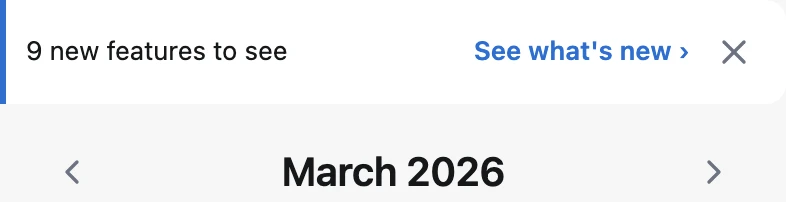
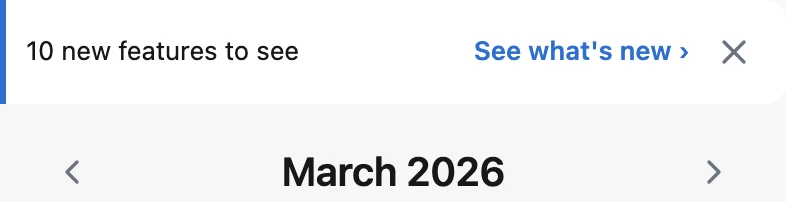
docs(cardio): 有酸素の ADR 2 本・マニュアルの章・お知らせを足す
- adr/data-model/cardio-segments-as-set-rows.md: 区間を SetEntry の任意フィールドとして持つ判断と、採らなかった案（合計だけ / ライブ計測 / 種類の復活 / 別の Vec）
- adr/ux/cardio-card-fields-per-machine.md: 1 行 = 1 区間、欄は機種ごとに最大 3 つ
- マニュアルに「有酸素を記録する」の章と図、お知らせ id 7 に図付きの項目

Changed region(s): [[0.0305, 0.2079, 0.3969, 0.297]]

diff --git a/src/i18n.rs b/src/i18n.rs
@@ -1199,6 +1199,20 @@ const JA_MANUAL: Manual = Manual {
             fig: Some((710, 510)),
         },
         ChapterText {
+            title: "有酸素を記録する",
+            body: &[
+                "「種目を追加」で部位「有酸素」を開き、機種を選びます。カードには、その機種の欄が出ます。",
+                "1 行が 1 区間です。時間・速度・傾斜などを打つと、カードの下の合計の行に、計算できる距離やペースが出ます。",
+                "途中で速度や傾斜を変えたら「+ 区間」を押します。直前の行の値が写り、時間欄にフォーカスが移るので、変えた欄だけ打ち直せます。",
+                "時間は分で打ちます。7.5 と打てば 7 分 30 秒として保存されます。",
+                "単位は km・km/h・%・m に固定です。設定では変わりません。",
+                "有酸素の行には重量と回数が無いので、「前回をコピー」は区間をそのまま持ち込みます。",
+                "推移タブでは、有酸素の種目を時間（分）か距離（km）でグラフにします。",
+            ],
+            fig_alt: "2 区間と合計",
+            fig: Some((762, 676)),
+        },
+        ChapterText {
             title: "空の日から始める",
             body: &[
                 "候補リストは、その日にまだ1枚もカードが無いときだけ出ます。",
@@ -1402,6 +1416,20 @@ const EN_MANUAL: Manual = Manual {
             ],
             fig_alt: "A set row with two drop stages",
             fig: Some((710, 510)),
+        },
+        ChapterText {
+            title: "Logging cardio",
+            body: &[
+                "Pick the Cardio group in \"+ Add exercise\", then a machine. The card shows that machine's fields.",
+                "One row is one interval. Fill in the minutes, speed, incline and so on; the total row below the card works out the distance or pace it can.",
+                "When you change the speed or incline partway through, tap \"+ Interval\". The row copies the previous values and the minutes field takes focus, so you only retype what changed.",
+                "Minutes are typed as minutes: 7.5 is saved as 7 min 30 s.",
+                "The units are fixed at km, km/h, % and m. Settings don't change them.",
+                "A cardio row has no weight or reps, so \"Copy last time\" carries the intervals across as they are.",
+                "On the Progress tab, a cardio exercise is charted by time (min) or distance (km).",
+            ],
+            fig_alt: "2 intervals and their total",
+            fig: Some((762, 676)),
         },
         ChapterText {
             title: "Starting from an empty day",
@@ -1715,6 +1743,21 @@ pub struct ReleaseNote {
 ///   `<slug>-<release id>`（例 `weight-line-9`）
 /// - **既存 id 1〜5 は基準より前のものなので触らない**（文言もフィールド割当も）
 pub const RELEASES: &[ReleaseNote] = &[
+    ReleaseNote {
+        id: 7,
+        date: "2026-10-27",
+        items: &[ReleaseItem {
+            ja: "有酸素を記録できるようにしました。種目を追加 → 有酸素 から機種を選ぶと、時間・速度・傾斜などを 1 行で打てます。途中で変えたら「+ 区間」で行を足せます。",
+            en: "Cardio can now be recorded. Add an exercise from the Cardio group and pick a machine, then fill in time, speed, incline and so on in one row. Changed something partway through? \"+ Interval\" adds another row.",
+            fig: Some(ReleaseFig {
+                id: "cardio-card",
+                alt_ja: "有酸素のカード",
+                alt_en: "A cardio card",
+                size_ja: (762, 676),
+                size_en: (762, 676),
+            }),
+        }],
+    },
     ReleaseNote {
         id: 6,
         date: "2026-09-22",

diff --git a/src/manual.rs b/src/manual.rs
@@ -61,6 +61,10 @@ pub const MANUAL_CHAPTERS: &[Chapter] = &[
         has_fig: true,
     },
     Chapter {
+        id: "cardio",
+        has_fig: true,
+    },
+    Chapter {
         id: "empty-day",
         has_fig: true,
     },

diff --git a/adr/data-model/cardio-segments-as-set-rows.md b/adr/data-model/cardio-segments-as-set-rows.md
@@ -1,0 +1,74 @@
+# 有酸素の区間を SetEntry の任意フィールドとして持つ
+
+- **状態**: 採用
+- **日付**: 2026-10-27
+- **カテゴリ**: data-model
+- **関連**: [指標を種目の属性ではなくグラフの表示設定にする](metric-is-a-view-setting.md)（種目に種類を持たせない方針の出所）, [ドロップセットをメインセットにぶら下がる段（`SetEntry.drops`）として持つ](drop-sets-as-stages-under-the-main-set.md)（セットへ任意の欄を足す前例）, [数値入力に `type="number"` を使わない](../ux/text-input-not-number.md), [有酸素のカードは 1 行 = 1 区間、欄は機種ごとに最大 3 つ](../ux/cardio-card-fields-per-machine.md)
+
+## 背景
+
+筋トレの記録は `SetEntry { weight, reps }` の 1 行 = 1 セットで、重量と回数が入る。有酸素（トレッドミル・エアロバイク・ローイングなど）は、時間・速度・傾斜・距離・レベルを記録したいが、筋トレの 2 欄には載らない。
+
+マシンの有酸素は「途中で傾斜や速度を変える」のが普通で、区間ごとに値が変わる。終わってから合計だけを 1 件として残すと、途中で変えた傾斜が数字として残らない。
+
+選択肢は大きく 2 つあった。**有酸素専用の記録の型を別に持つ**か、**既存の行（`SetEntry`）に任意の欄を足す**か。
+
+## 決定
+
+**有酸素の 1 区間を `SetEntry` の任意フィールド `cardio: Option<Cardio>` として持つ。** `Cardio` の欄はすべて任意。
+
+```rust
+pub struct SetEntry {
+    pub weight: u32,
+    pub reps: u32,
+    /// 有酸素の区間。筋トレの行では `None` のままキーごと出さない。
+    #[serde(default, skip_serializing_if = "Option::is_none")]
+    pub cardio: Option<Cardio>,
+    // …（既存のフィールドは変えない）
+}
+
+pub struct Cardio {
+    pub sec: Option<u32>,    // 時間（秒）。UI は分で打つ
+    pub m: Option<u32>,      // 距離（メートル）。UI は km（ローイングだけ m）
+    pub kmh: Option<f32>,    // 速度（km/h）
+    pub incline: Option<f32>, // 傾斜（%）
+    pub level: Option<u32>,  // レベル
+}
+```
+
+- 有酸素の行は `weight = 0`, `reps = 0` で保存する。
+- 有酸素かどうかは **種目の部位が「有酸素」かどうかで決める**。種目に「加重 / 自重 / 時間」のような種類のフィールドは持たせない（[指標を種目の属性ではなくグラフの表示設定にする](metric-is-a-view-setting.md) の方針を守る）。
+- 欄を足すときは `#[serde(default, skip_serializing_if)]` を付け、**`SCHEMA` は上げない**。有酸素を使わない人の JSON はバイト単位で変わらない。
+- 単位は保存側で固定する（時間は秒、距離は m）。表示と入力で分・km に直す（Hevy の公開 API も保存単位を m と秒に固定している）。
+
+## 理由
+
+**1 行 = 1 セットの形を崩さない。** 同じセットの判定（`same_set` / `same_sets`）、マージの順位（`log_rank`）、前回コピー、正規化、TSV の書き出しは、`SetEntry` の一覧を前提に書かれている。有酸素を別の `Vec` にすると、並べ替え・メモ・時刻・削除・前回コピー・マージを二重に持つことになる（[検討した代替案](#検討した代替案) (4)）。
+
+**既存の任意欄の前例に乗る。** ドロップセットは `SetEntry.drops` を空なら出さない任意欄として足された（[ドロップセットをメインセットにぶら下がる段（`SetEntry.drops`）として持つ](drop-sets-as-stages-under-the-main-set.md)）。同じ規則に従えば、旧 JSON はそのまま読め、`SCHEMA` も変わらない。
+
+**Garmin FIT と Android Health Connect が同じ形をしている。** どちらも「要約（セッション）と区間（lap / segment）」を持ち、区間は空でよい。1 行が普段の形で、区間は任意という分け方はこの業界の標準的な形に近い。Bluetooth FTMS のトレッドミル規格も、中核を速度・傾斜・距離・経過時間に置いており、欄の候補の根拠になる。
+
+**保存単位を固定して表示で直す。** 単位を入力者の好みで保存すると、集計で単位が混ざる。wger のように回数欄へ「分」を入れる方法は、集計の単位が崩れるので採らなかった。
+
+## 結果（トレードオフ）
+
+**旧版のアプリで開いて保存すると `cardio` が落ちる。** 旧版は `Cardio` を知らないので、読んで書き戻す時に欄が消える。ドロップセットや打った時刻（`SetEntry::at`）と同じ性質で、新版で保存し直せば戻る。
+
+**取り込み確認の「セット」数は区間も数える。** 集計の定義を変えず、画面上の「セット」という語に区間も入る。
+
+**利用者が自作した同名の「有酸素」部位があると、部位が 2 つ並ぶ。** 印（`UiState::cardio_group_added`）は 1 回だけ足すための目印で、名前の衝突は防げない。
+
+**区間の欄が増えると行の判定が複雑になる。** 同じセットの判定とマージの順位に `cardio` を入れた。欄を足す PR は、この 2 関数と正規化の対応を同時に見ること。
+
+## 検討した代替案
+
+**(1)「合計だけ」を記録する。** 全機種で固定の 4 欄（時間・距離・傾斜・速度）を 1 件として持ち、途中の変化はメモに書く。途中で変えた傾斜が数字として残らないので採らなかった。
+
+**(2)「ライブ計測」にする。** 開始ボタンで時間を計り、± で区間を切る。マシンの上で操作が要り、押し忘れで区間がずれる。終わってから表示の値を写すほうが確実。
+
+**(3) 種目に種類を持たせる（`Exercise.kind` を復活させる）。** [指標を種目の属性ではなくグラフの表示設定にする](metric-is-a-view-setting.md) で捨てた判断の逆走になる。
+
+**(4) `ExerciseLog` に別の `Vec<Cardio>` を持つ。** 並べ替え・メモ・時刻・削除・前回コピー・マージを二重に持つことになる。
+
+**(5) 時間と距離の切り替えボタンを置く。** 機種ごとに「設定した値」と「終わって写す値」を欄として分ければ、切り替えは要らない。

diff --git a/adr/ux/cardio-card-fields-per-machine.md b/adr/ux/cardio-card-fields-per-machine.md
@@ -1,0 +1,61 @@
+# 有酸素のカードは 1 行 = 1 区間、欄は機種ごとに最大 3 つ
+
+- **状態**: 採用
+- **日付**: 2026-10-27
+- **カテゴリ**: ux
+- **関連**: [有酸素の区間を SetEntry の任意フィールドとして持つ](../data-model/cardio-segments-as-set-rows.md), [セット追加は直前行の重量をコピーして回数欄へフォーカスする](set-entry-prefill-and-focus.md), [数値入力に `type="number"` を使わない](text-input-not-number.md), [指標を種目の属性ではなくグラフの表示設定にする](../data-model/metric-is-a-view-setting.md)
+
+## 背景
+
+有酸素を記録する画面は、筋トレのカードと同じ形（1 枚のカードに行が並ぶ）にしたい。ただしマシンごとに見る値が違う。トレッドミルは時間・速度・傾斜、エアロバイクは時間・レベル・距離、ローイングは時間と距離（500m あたりのタイム）。全機種で同じ欄を出すと、使わない欄が毎回空いて邪魔になる。
+
+利用者には 3 案のモック（区間カード / 合計だけ / ライブ計測）を見せて選んでもらった。**区間カード**を選んだ。
+
+## 決定
+
+**有酸素の種目は、カードの 1 行が 1 区間になる。欄は機種ごとに最大 3 つ。**
+
+| 機種 | 欄 | 合計行に計算して出す |
+|---|---|---|
+| トレッドミル | 分 · km/h · % | 距離（入力した距離が優先、無ければ 速度 × 時間） |
+| エアロバイク | 分 · Lv · km | — |
+| クロストレーナー | 分 · Lv | — |
+| ローイング | 分 · m | 500m あたりのタイム |
+| ステアクライマー | 分 · Lv | — |
+| ラン・ウォーク（屋外） | 分 · km | 1km あたりのペース |
+| 有酸素の部位に入れた自作の種目 | 分 · km | 1km あたりのペース |
+
+- 「+ 区間」は**直前の行を写して時間欄にフォーカスする**。筋トレの「+ セット」と同じ流儀（[セット追加は直前行の重量をコピーして回数欄へフォーカスする](set-entry-prefill-and-focus.md)）。
+- 時間は分で打つ（`7.5` = 7 分 30 秒）。保存は秒。
+- 単位は km・km/h・%・m に固定する（設定で変えられない）。
+- カードの下の「計」行は、入力から計算できる値だけを出す。計算できない機種は出さない。
+
+## 理由
+
+**1 行 = 1 区間にすると、途中の変化が数字で残る。** 「15 分 4.8 km/h 12%」と「15 分 4.8 km/h 15%」の 2 行で、途中で傾斜を上げた事実がそのまま残る。終わってから合計だけを 1 件にすると、この情報が消える。
+
+**「+ 区間」で直前の値を写すと、変えた欄だけ打てばよい。** 傾斜だけ変えるなら 1 欄打つだけで済む。前回値を写すことは、筋トレで重量を据え置いて回数だけ変える操作（[セット追加は直前行の重量をコピーして回数欄へフォーカスする](set-entry-prefill-and-focus.md)）と同じ手数の減らし方になる。
+
+**欄を機種ごとに 3 つまでに絞る。** 3 欄を超えると、マシンの上で 1 行を打つ時間が長くなる。FTMS のトレッドミル規格の中核（速度・傾斜・距離・経過時間）から、トレッドミルは 3 欄に収まる。
+
+**入力は数値の欄でもテキストで受ける。** 小数（4.8 km/h）と空欄（書かない）を扱うため、[数値入力に `type="number"` を使わない](text-input-not-number.md) の規則に従う。
+
+## 結果（トレードオフ）
+
+**機種ごとに欄の意味が違う。** 「分」は全機種で同じだが、2 つ目の欄は速度・レベル・距離のどれかになる。画面では機種名と欄の見出しを必ず出す。
+
+**距離がトレッドミルだけ 2 通りに出る。** 入力した距離が優先され、無ければ速度 × 時間で出す。合計行の距離は「計算値」であって、マシンの表示と一致しないことがある。
+
+**欄が 3 つあるので、375px 幅で 1 行に収める必要がある。** 3 欄と ✕ を 1 行に収めるため、欄の幅を固定して折り返さないようにした（E2E で 375px を確認する）。
+
+**「+ 区間」の挙動が筋トレと同じでも、区間の意味は違う。** 筋トレの行は「1 セット」、有酸素の行は「同じ機器で続けた 1 区間」。画面の文言は「区間」で統一する。
+
+## 検討した代替案
+
+**(1)「合計だけ」を全機種で固定の 4 欄にする。** 途中で変えた傾斜や速度が数字として残らない。
+
+**(2)「ライブ計測」にする。** 開始ボタンで時間を計り、± で区間を切る。マシンの上で操作が要り、押し忘れで区間がずれる。
+
+**(3) 機種を選ばず、全機種で時間・距離・傾斜・速度の 4 欄を出す。** 機種ごとの違いは吸収できるが、エアロバイクのレベルやローイングの 500m ペースが入らない。
+
+**(4) 時間と距離を切り替えるボタンを置く。** 機種ごとに「設定した値」と「終わって写す値」を欄として分ければ、切り替えは要らない。
